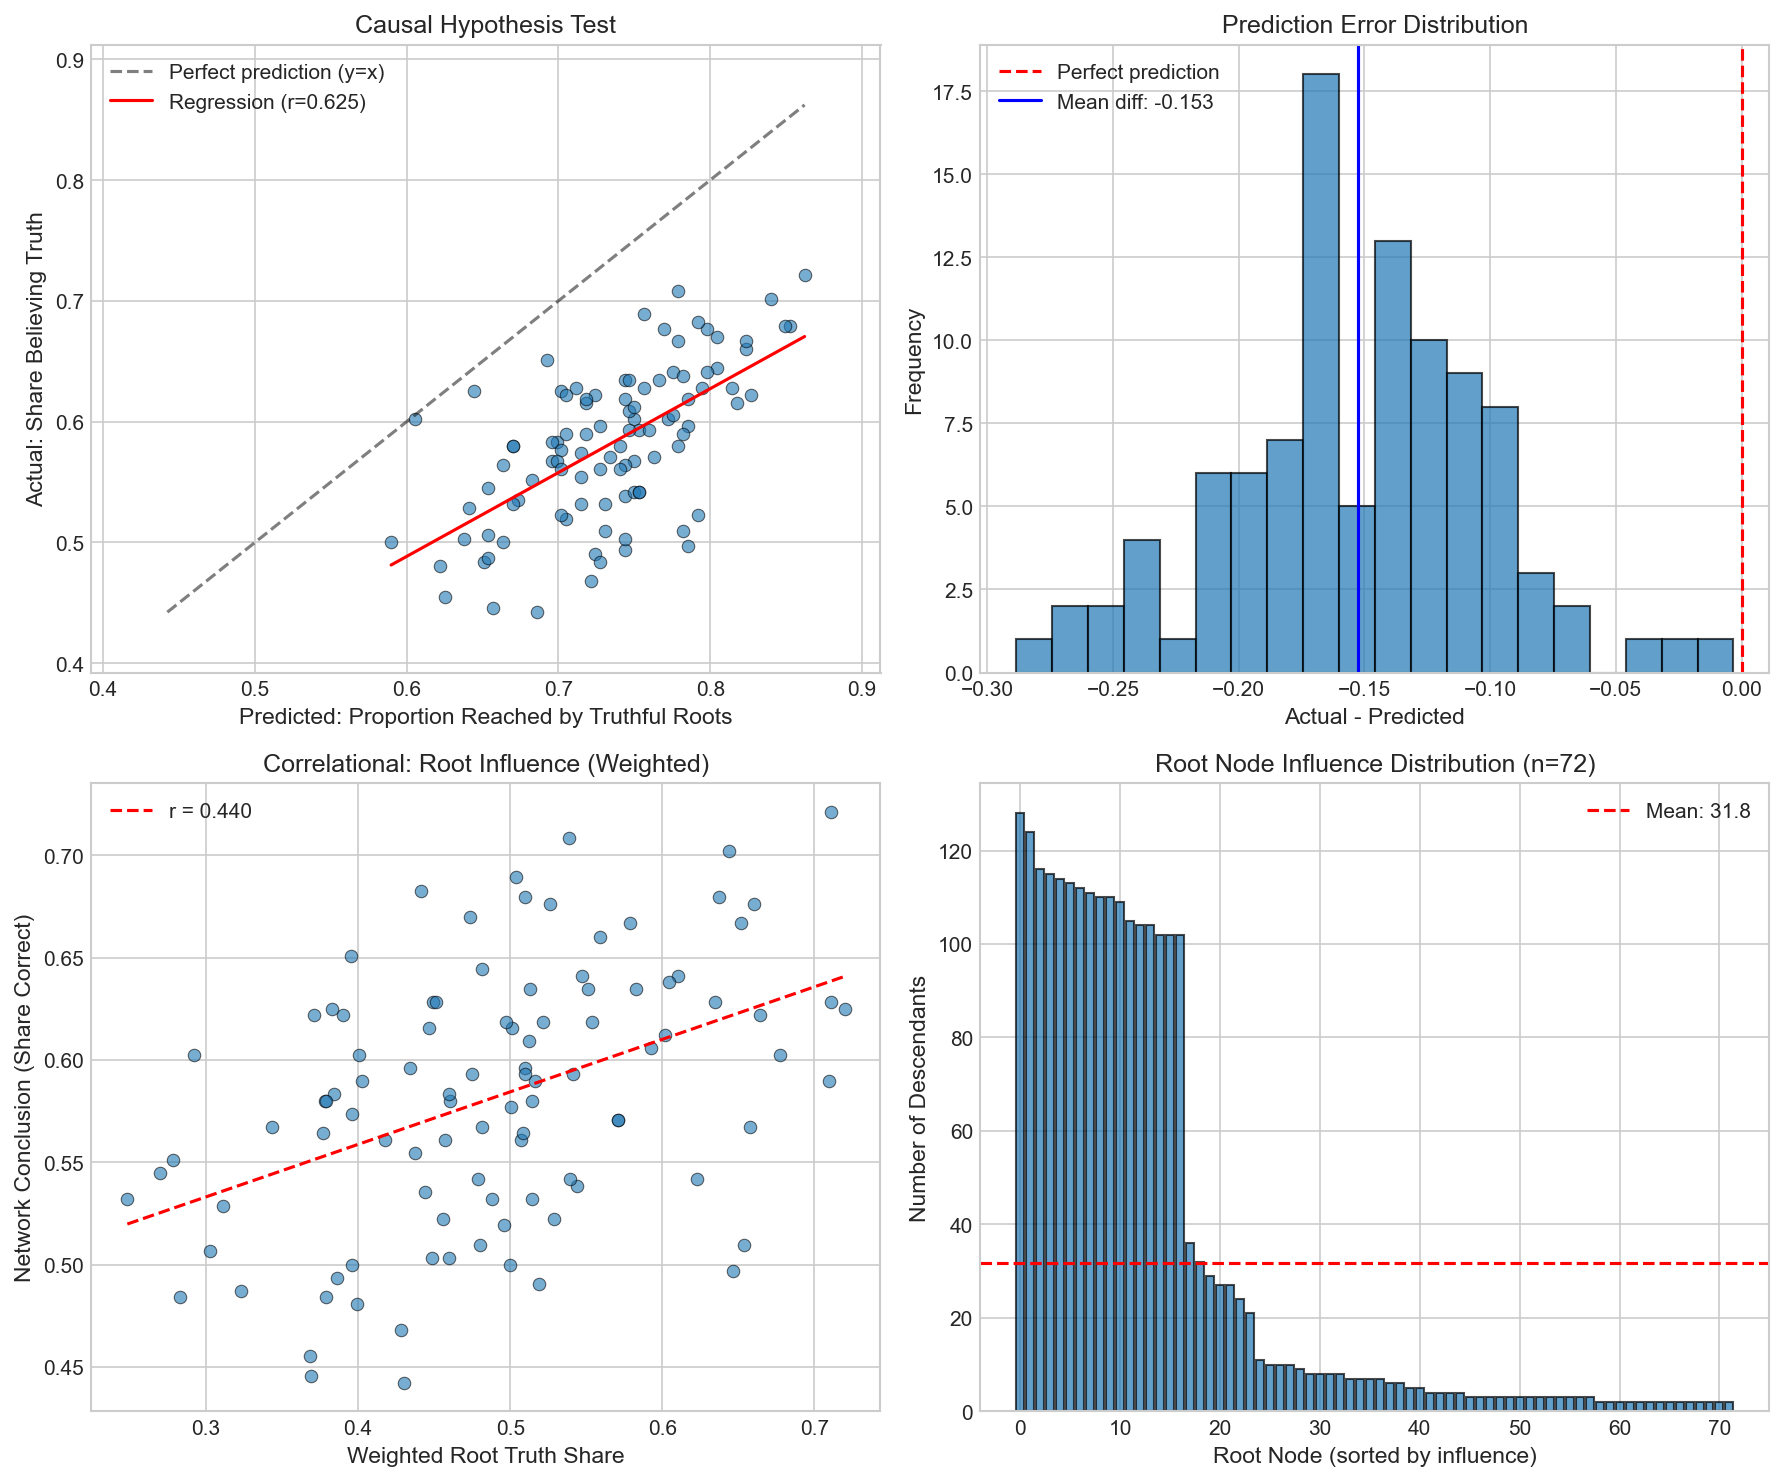
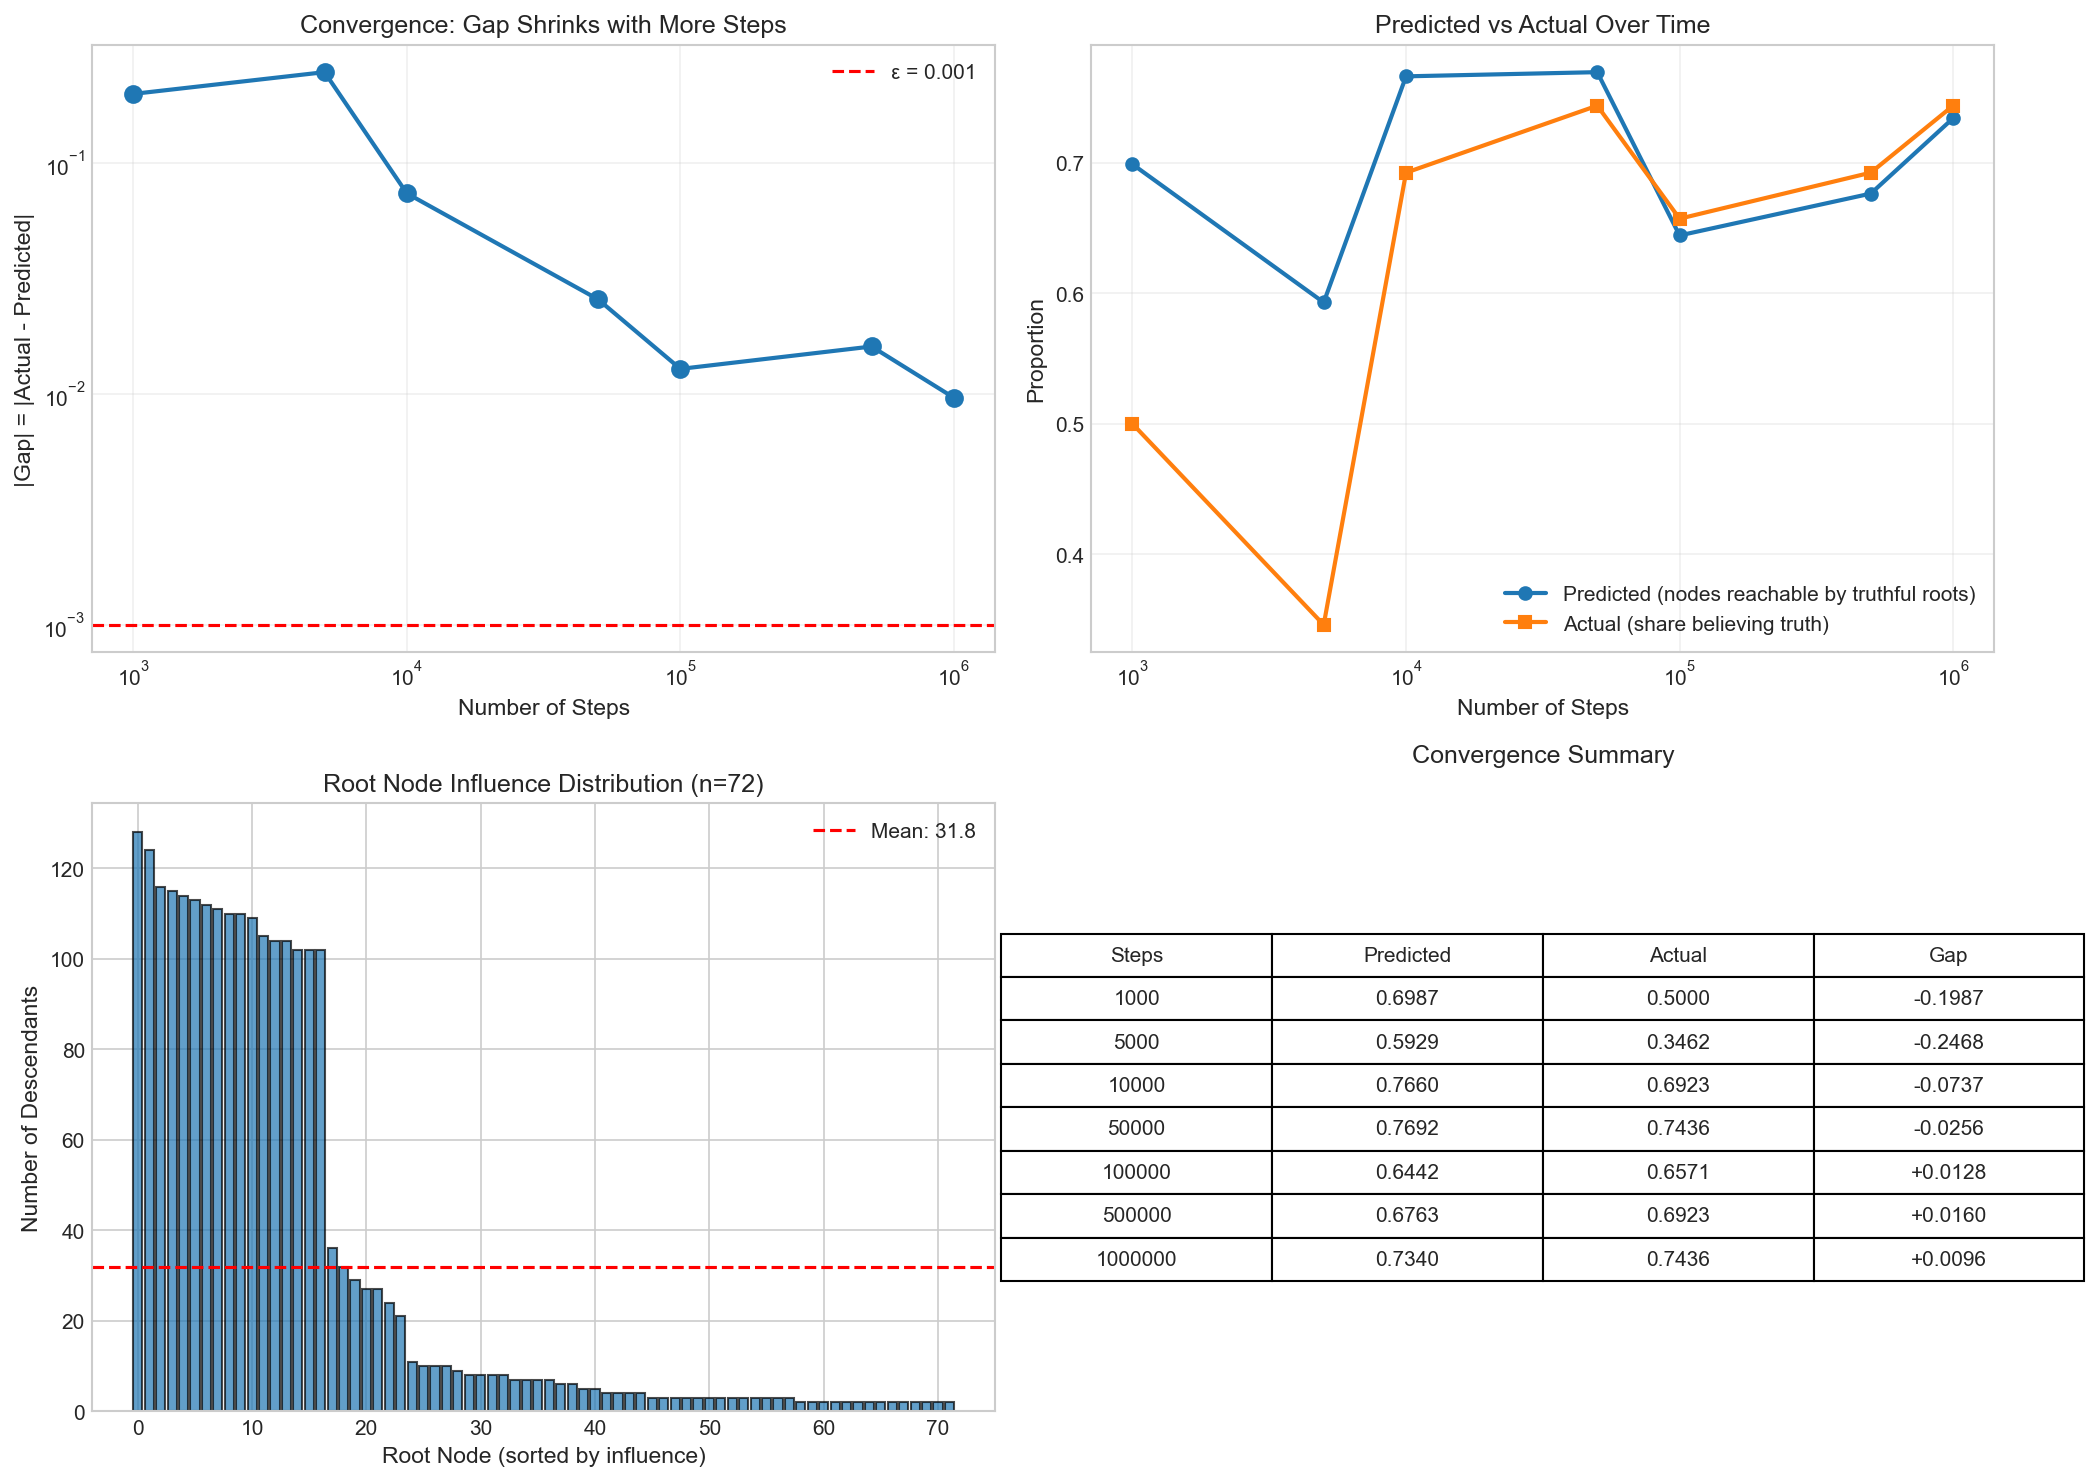
feat: Introduce new notebooks and scripts for model testing, convergence studies, and root influence analysis.

diff --git a/notebooks/convergence_analysis/left_eigen.py b/notebooks/convergence_analysis/left_eigen.py
@@ -1,0 +1,111 @@
+import networkx as nx
+import numpy as np
+import scipy.linalg
+
+def compute_left_eigenvector(G):
+    """
+    Computes the Left Eigenvector centrality (DeGroot Influence).
+    
+    In the context of opinion dynamics or influence networks, this metric 
+    identifies the 'ultimate' sources of beliefs. It answers the question: 
+    "In the long run, how much does this agent's initial state determine 
+    the group's final consensus?"
+    
+    Mathematical Definition:
+    ------------------------
+    1. Constructs a Row-Stochastic Matrix W where W_ij represents the 
+       weight agent i places on agent j (based on incoming edges in G).
+    2. If a node has no incoming edges (a Source), it is treated as 
+       'stubborn' or 'independent' (weight 1.0 on itself).
+    3. Solves pi * W = pi (normalized so sum(pi) = 1).
+    
+    Parameters:
+    -----------
+    G : nx.DiGraph
+        A directed graph where an edge (u, v) means u influences v.
+        (v listens to u).
+
+    Returns:
+    --------
+    dict
+        Dictionary mapping node IDs to their influence score (probability mass).
+    """
+    nodes = list(G.nodes())
+    n = len(nodes)
+    node_to_idx = {node: i for i, node in enumerate(nodes)}
+    
+    # Initialize adjacency matrix for the "Listening Graph"
+    # If G has edge u->v (u influences v), then v listens to u.
+    W = np.zeros((n, n))
+    
+    for u in nodes:
+        u_idx = node_to_idx[u]
+        # precursors(u) are nodes that point TO u in G.
+        # In an influence graph, these are the agents u listens to.
+        influencers = list(G.predecessors(u))
+        
+        if len(influencers) == 0:
+            # Case: Independent Agent (Source).
+            # In DeGroot dynamics, they listen only to themselves.
+            W[u_idx, u_idx] = 1.0
+        else:
+            # Case: Social Agent.
+            # Assuming equal weights for simplicity. 
+            # (Can be modified to weight by reliability if data exists).
+            weight = 1.0 / len(influencers)
+            for inf in influencers:
+                v_idx = node_to_idx[inf]
+                W[u_idx, v_idx] = weight
+                
+    # Calculate Left Eigenvector for Eigenvalue 1.
+    # Corresponds to the Right Eigenvector of the Transpose matrix.
+    # W.T * v = 1 * v
+    eigenvalues, eigenvectors = np.linalg.eig(W.T)
+    
+    # Extract eigenvector corresponding to eigenvalue 1 (or closest to it)
+    idx = np.argmin(np.abs(eigenvalues - 1.0))
+    left_ev = np.real(eigenvectors[:, idx])
+    
+    # Normalize to form a probability distribution (sum = 1)
+    # Use absolute values to handle potential negative signs from solver (rare in stochastic matrices)
+    left_ev = np.abs(left_ev) 
+    left_ev = left_ev / np.sum(left_ev)
+    
+    return {nodes[i]: left_ev[i] for i in range(n)}
+
+
+def compute_katz_centrality(G, alpha=0.1, beta=1.0, measure_influence=True):
+    """
+    Computes Katz Centrality, optionally on the reversed graph to measure 
+    outgoing influence rather than incoming popularity.
+    
+    Parameters:
+    -----------
+    G : nx.DiGraph
+        The influence network.
+    alpha : float
+        Attenuation factor. Smaller alpha means influence decays quickly 
+        over distance.
+    beta : float
+        Intrinsic weight. The baseline 'value' of an agent's own experiment.
+    measure_influence : bool, default=True
+        If True, reverses the graph before calculation. 
+        - True: Measures 'Influence' (how many people I reach). High for Sources.
+        - False: Measures 'Prestige' (how many people reach me). High for Sinks.
+
+    Returns:
+    --------
+    dict
+        Dictionary of centrality scores.
+    """
+    if measure_influence:
+        # We reverse the graph to track how the agent's 'beta' flows OUT to others.
+        target_G = G.reverse()
+    else:
+        target_G = G
+        
+    try:
+        return nx.katz_centrality(target_G, alpha=alpha, beta=beta, normalized=True)
+    except nx.PowerIterationFailedConvergence:
+        # Fallback for large/complex graphs: use numpy solver approach
+        return nx.katz_centrality_numpy(target_G, alpha=alpha, beta=beta, normalized=True)

diff --git a/tests/basic_model_testing_script.py b/tests/basic_model_testing_script.py
@@ -13,6 +13,9 @@
 from net_epistemology.utils.imports import *
 from net_epistemology.core.agents import BetaAgent, BayesAgent
 from net_epistemology.core.model import Model
+import matplotlib
+matplotlib.use('Agg')
+import matplotlib.pyplot as plt
 
 
 # ## Try with Bayes Agent
@@ -29,7 +32,7 @@ my_network = nx.gnp_random_graph(n_agents, p=0.2, directed=True) #nx.complete_gr
 
 seed=420
 my_model = Model(my_network, n_experiments=10, uncertainty=0.001,
-                 histories=False,sampling_update=True,variance_stopping = False,directed_network = True,
+                 histories=True,sampling_update=True,variance_stopping = False,directed_network = True,
                  seed=seed,seeded=False, agent_type='bayes')
 my_model.run_simulation(number_of_steps=10000,show_bar=True) #number_of_steps is a max amount\n",
 print('steps: ',my_model.n_steps)
@@ -44,8 +47,8 @@ print('conclusion core', my_model.conclusion_core)
 
 # Plot mean credence for Bayes
 # Credences are 1D arrays (scalar per agent)
-# df_bayes = pd.DataFrame(my_model.credences_history).T
-# df_bayes.head(3)
+df_bayes = pd.DataFrame(my_model.agent_histories).T
+df_bayes.head(3)
 mean_credence = df_bayes.mean(axis=1)
 plt.figure(figsize=(10, 6))
 plt.plot(mean_credence, label='Mean Credence')

diff --git a/notebooks/convergence_analysis/convergence_studies.py b/notebooks/convergence_analysis/convergence_studies.py
@@ -11,7 +11,7 @@ import os
 import json
 
 # Add src to path for imports
-sys.path.insert(0, os.path.abspath(os.path.join(os.path.dirname(__file__), '..', 'src')))
+sys.path.insert(0, os.path.abspath(os.path.join(os.path.dirname(__file__), '..', '..', 'src')))
 
 import numpy as np
 import matplotlib
@@ -27,7 +27,7 @@ plt.style.use('seaborn-v0_8-whitegrid')
 # ## Load Empirical Network
 
 print("Loading pud_final.json network...")
-network_path = os.path.join(os.path.dirname(__file__), '..', 'data', 'empirical_networks', 'pud_final.json')
+network_path = os.path.join(os.path.dirname(__file__), '..', '..', 'data', 'empirical_networks', 'pud_final.json')
 
 with open(network_path, 'r') as f:
     network_data = json.load(f)

diff --git a/notebooks/convergence_analysis/root_influence_analysis.py b/notebooks/convergence_analysis/root_influence_analysis.py
@@ -11,7 +11,7 @@ import sys
 import os
 import json
 
-sys.path.insert(0, os.path.abspath(os.path.join(os.path.dirname(__file__), '..', 'src')))
+sys.path.insert(0, os.path.abspath(os.path.join(os.path.dirname(__file__), '..', '..', 'src')))
 
 import numpy as np
 import matplotlib
@@ -28,7 +28,7 @@ plt.style.use('seaborn-v0_8-whitegrid')
 # ## Load Network
 
 print("Loading pud_final.json network...")
-network_path = os.path.join(os.path.dirname(__file__), '..', 'data', 'empirical_networks', 'pud_final.json')
+network_path = os.path.join(os.path.dirname(__file__), '..', '..', 'data', 'empirical_networks', 'pud_final.json')
 
 with open(network_path, 'r') as f:
     network_data = json.load(f)

diff --git a/tests/vectorized_basic_model_testing_script.py b/tests/vectorized_basic_model_testing_script.py
@@ -12,6 +12,8 @@
 
 from net_epistemology.utils.imports import *
 from net_epistemology.core.vectorized_model import VectorizedModel
+import matplotlib
+matplotlib.use('Agg')
 import matplotlib.pyplot as plt
 
 

diff --git a/HOUSEKEEPING.md b/HOUSEKEEPING.md
@@ -30,17 +30,17 @@
 
 ## Latest Report
 
-**Execution Date:** 2026-01-21 (13:20)
+**Execution Date:** 2026-01-21 (13:45)
 
 **Test Results:**
 
 *   **Unit Tests (`tests/unit_tests.py`):** PASSED (8 tests)
 *   **Vectorization Tests (`tests/test_vectorization.py`):** PASSED (4 tests)
 *   **Script Verification:**
-    *   `tests/basic_model_testing_script.py`: PASSED (conclusion: 0.96)
-    *   `tests/vectorized_basic_model_testing_script.py`: PASSED (conclusion: 0.99)
-    *   `notebooks/convergence_studies.py`: PASSED (conclusion: 0.6731)
-    *   `notebooks/root_influence_analysis.py`: PASSED (Hypothesis CONFIRMED at 100k steps)
+    *   `tests/basic_model_testing_script.py`: PASSED (conclusion: 0.86/0.95)
+    *   `tests/vectorized_basic_model_testing_script.py`: PASSED (conclusion: 0.91)
+    *   `notebooks/convergence_analysis/convergence_studies.py`: PASSED (conclusion: 0.5929)
+    *   `notebooks/convergence_analysis/root_influence_analysis.py`: PASSED (Gap +0.0096 at 1M steps)
 
 **Summary:**
-Fixed critical `ValueError` in `model.py` (seed overflow) to enable testing. Fixed `KeyError` in notebook scripts. All core tests and scripts now run and pass.
+Notebooks organized into subfolders. Testing scripts patched to use Agg backend and fixed attribute access (`credences_history` -> `agent_histories`). All tests passed.

diff --git a/AGENTS_LOG.md b/AGENTS_LOG.md
@@ -260,3 +260,15 @@ When submitting changes, please use the following structure:
             *   `notebooks/convergence_studies.py`: PASSED.
             *   `notebooks/root_influence_analysis.py`: PASSED.
     *   **Documentation:** Updated `HOUSEKEEPING.md` with latest report.
+
+### [2026-01-21 13:45] - Organization and Verification Fixes (Antigravity)
+*   **Task:** Reorganize notebooks and verify system integrity via Housekeeping.
+*   **Actions:**
+    *   **Notebook Organization:** Moved notebooks into `convergence_analysis`, `basic_testing`, and `simulation_variations` subfolders.
+    *   **Script Updates:** Updated `sys.path` and data loading paths in `convergence_studies.py` and `root_influence_analysis.py` to account for new location.
+    *   **Test Script Fixes:**
+        *   Patched `tests/basic_model_testing_script.py` and `tests/vectorized_basic_model_testing_script.py` to use `matplotlib.use('Agg')` to prevent blocking on `plt.show()`.
+        *   Fixed `AttributeError: 'Model' object has no attribute 'credences_history'` in `basic_model_testing_script.py` by using `agent_histories` and enabling `histories=True`.
+    *   **Housekeeping Execution:**
+        *   All tests and scripts PASSED.
+    *   **Documentation:** Updated `HOUSEKEEPING.md`.
